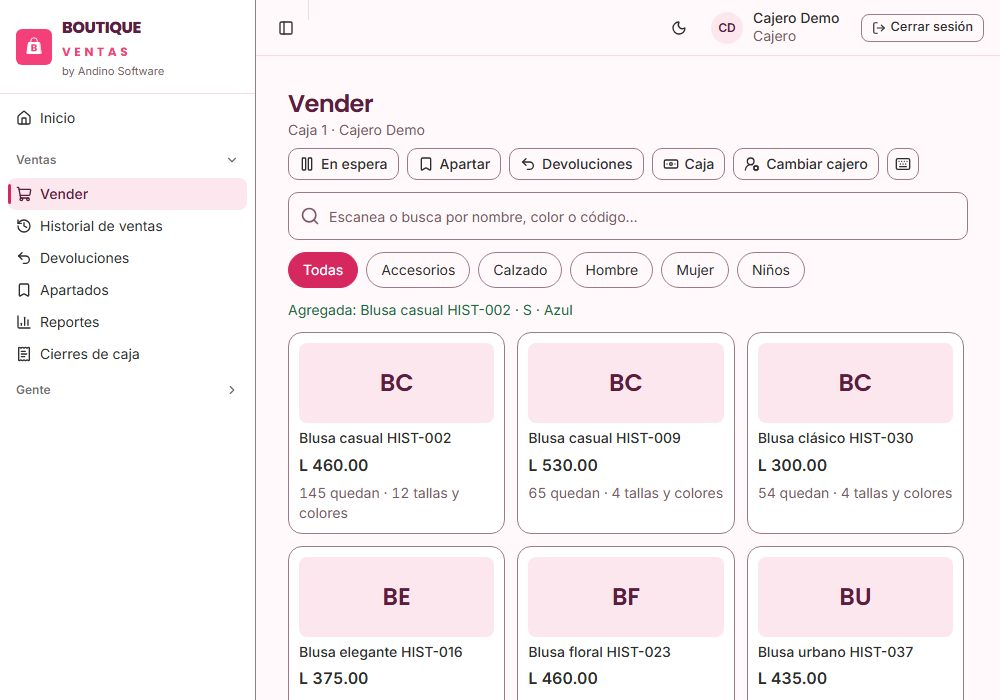
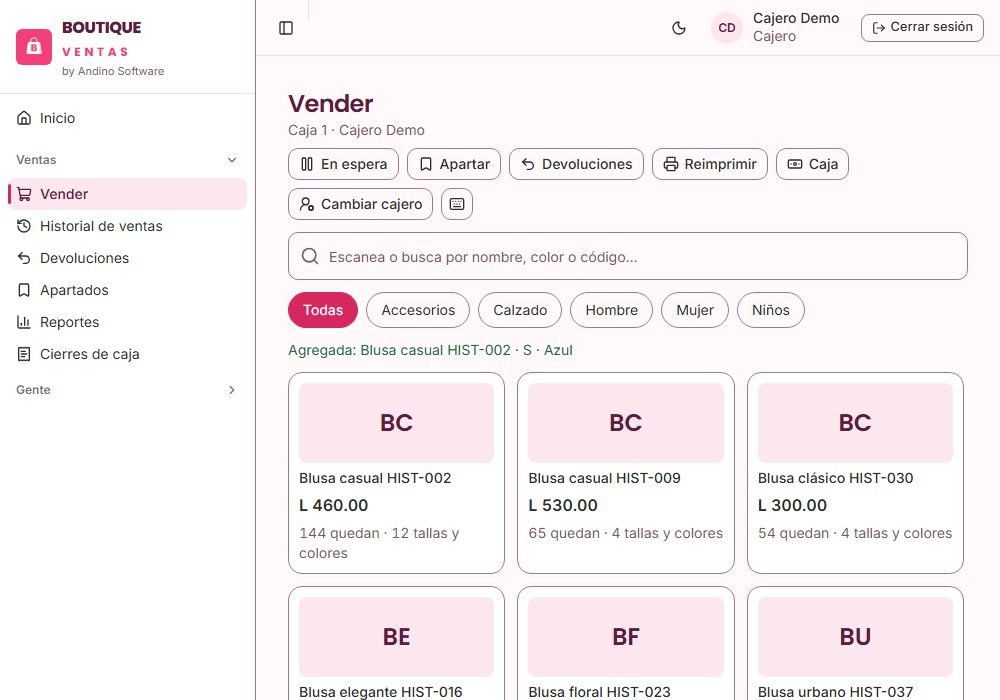
CAMBIOS DE BOTONES CAJA

diff --git a/src/modules/cash/components/cash-panel.tsx b/src/modules/cash/components/cash-panel.tsx
@@ -3,7 +3,6 @@
 import {
   ArrowDownToLine,
   ArrowUpFromLine,
-  Ban,
   Banknote,
   Bookmark,
   ChevronLeft,
@@ -39,9 +38,6 @@ type CashPanelProps = {
   openedByName: string;
   /** El punto de venta pausa sus atajos mientras el panel está abierto. */
   onOpenChange?: (open: boolean) => void;
-  /** Hay prendas en el ticket: se puede cancelar la venta. */
-  canCancelSale: boolean;
-  onCancelSale: () => void;
   /** Solo si la persona puede manejar apartados. */
   canLayaway: boolean;
 };
@@ -50,18 +46,11 @@ const actionClass = "h-12 justify-start gap-2 px-3 text-sm font-medium";
 
 /**
  * La caja dentro de Vender, como los botones de una caja registradora: ingresar o retirar efectivo, agregar un gasto, los
- * apartados, cancelar la venta y el corte. Los datos se piden al abrir y otra vez tras cada cambio, así lo que ven coincide
- * con las ventas que se acaban de cobrar. (Cambiar de cajero sigue en el encabezado de Vender: también lo usa quien no
- * es dueño del turno.)
+ * apartados y el corte. Los datos se piden al abrir y otra vez tras cada cambio, así lo que ven coincide con las ventas
+ * que se acaban de cobrar. (Cambiar de cajero sigue en el encabezado de Vender: también lo usa quien no es dueño del
+ * turno. Vaciar el ticket está en el propio ticket, y deshacer una venta ya cobrada es una devolución.)
  */
-export function CashPanel({
-  ownSession,
-  openedByName,
-  onOpenChange,
-  canCancelSale,
-  onCancelSale,
-  canLayaway,
-}: CashPanelProps) {
+export function CashPanel({ ownSession, openedByName, onOpenChange, canLayaway }: CashPanelProps) {
   const [open, setOpen] = useState(false);
   const [view, setView] = useState<View>("menu");
   const [state, setState] = useState<CashPanelState | null>(null);
@@ -83,12 +72,6 @@ export function CashPanel({
         load();
       }
     }
-  }
-
-  /** Cierra el panel y deja que el punto de venta siga con lo que pidió (cancelar la venta). */
-  function leaveTo(action: () => void) {
-    changeOpen(false);
-    action();
   }
 
   function saved() {
@@ -163,13 +146,7 @@ export function CashPanel({
               ) : null}
 
               <div hidden={view !== "menu"} className="space-y-4">
-                <ActionGrid
-                  data={state.data}
-                  canCancelSale={canCancelSale}
-                  canLayaway={canLayaway}
-                  onView={setView}
-                  onCancelSale={() => leaveTo(onCancelSale)}
-                />
+                <ActionGrid data={state.data} canLayaway={canLayaway} onView={setView} />
                 <ShiftDetail data={state.data} />
                 <Link
                   href="/caja/cierres"
@@ -215,16 +192,12 @@ function ActionButton({
 
 function ActionGrid({
   data,
-  canCancelSale,
   canLayaway,
   onView,
-  onCancelSale,
 }: {
   data: CashPanelData;
-  canCancelSale: boolean;
   canLayaway: boolean;
   onView: (view: View) => void;
-  onCancelSale: () => void;
 }) {
   const actions = panel.actions;
   // Sin el módulo Finanzas, «Retirar efectivo» cubre también los pagos: el gasto necesita una categoría a dónde ir.
@@ -248,13 +221,6 @@ function ActionGrid({
           {actions.layaways}
         </Link>
       ) : null}
-      <ActionButton
-        icon={<Ban aria-hidden="true" />}
-        disabled={!canCancelSale}
-        onClick={onCancelSale}
-      >
-        {actions.cancelSale}
-      </ActionButton>
       <Button
         type="button"
         className={cn(actionClass, "col-span-2")}

diff --git a/tests/e2e/shift.spec.ts b/tests/e2e/shift.spec.ts
@@ -443,6 +443,15 @@ test("the cashier charges in cash, sees the change and prints the ticket", async
   // Nueva venta: el ticket queda vacío y el ticket cobrado se puede imprimir
   await page.getByRole("button", { name: charge.done.newSale }).click();
   await expect(page.getByText(pos.ticket.empty)).toBeVisible();
+
+  // El botón «Reimprimir» (la tecla F9) abre el último ticket cobrado
+  const [reprinted] = await Promise.all([
+    page.context().waitForEvent("page"),
+    page.getByRole("button", { name: pos.actions.reprint, exact: true }).click(),
+  ]);
+  await reprinted.waitForURL(/\/imprimir\/ticket\/[a-z0-9]+/);
+  await reprinted.close();
+
   await page.goto(printHref.replace("?auto=1", ""));
   const sheet = page.getByRole("article", { name: `${messages.salesDoc.ticket} ${ticketNumber}` });
   await expect(sheet).toContainText(name);
@@ -473,26 +482,28 @@ test("the cashier charges in cash, sees the change and prints the ticket", async
   await closeLeftoverCash(page);
 });
 
-test("the cashier cancels a sale with a reason, from the ticket and from the cash panel, and it stays on record", async ({
+test("the cashier empties the ticket with a reason, it stays on record, and the cash panel has no such button", async ({
   page,
   browser,
 }) => {
   test.slow();
-  const name = `E2E Cancelar ${Date.now()}`;
+  const name = `E2E Vaciar ${Date.now()}`;
   const baseURL = test.info().project.use.baseURL as string;
   await createStockedProduct(browser, baseURL, name, "90", "L 90.00", "5");
 
   await openCashAndSell(page);
 
-  // Sin prendas en el ticket no hay venta que cancelar
+  // Sin prendas no hay nada que vaciar; y el panel de Caja no lo ofrece (una venta ya cobrada se deshace con una devolución)
+  const clear = page.getByRole("button", { name: pos.ticket.clear });
+  await expect(clear).toBeDisabled();
   const idle = await openCashPanel(page);
-  await expect(idle.getByRole("button", { name: copy.panel.actions.cancelSale })).toBeDisabled();
+  await expect(idle.getByRole("button", { name: pos.ticket.clear })).toHaveCount(0);
   await page.keyboard.press("Escape");
   await expect(idle).toBeHidden();
 
-  // Desde el ticket: pide el motivo y no se cancela sin él
+  // Desde el ticket: pide el motivo y no se vacía sin él
   await addToTicket(page, name, "L 90.00");
-  await page.getByRole("button", { name: pos.ticket.clear }).click();
+  await clear.click();
   const dialog = page.getByRole("dialog", { name: pos.cancel.title });
   const confirm = dialog.getByRole("button", { name: pos.cancel.confirm });
   await expect(confirm).toBeDisabled();
@@ -502,10 +513,9 @@ test("the cashier cancels a sale with a reason, from the ticket and from the cas
   await confirm.click();
   await expect(page.getByText(pos.ticket.empty)).toBeVisible();
 
-  // Desde el panel de Caja: lo mismo
+  // Otra vez, con otro motivo
   await addToTicket(page, name, "L 90.00");
-  const panel = await openCashPanel(page);
-  await panel.getByRole("button", { name: copy.panel.actions.cancelSale }).click();
+  await clear.click();
   const again = page.getByRole("dialog", { name: pos.cancel.title });
   await again.getByLabel(pos.cancel.reason, { exact: true }).fill("E2E se fue sin comprar");
   await again.getByRole("button", { name: pos.cancel.confirm }).click();

diff --git a/src/config/messages.es.ts b/src/config/messages.es.ts
@@ -459,7 +459,7 @@ export const messages = {
     pagination: { previous: "Anterior", next: "Siguiente" },
     actions: {
       SALE_VOIDED: "Venta anulada",
-      TICKET_CANCELLED: "Venta cancelada antes de cobrar",
+      TICKET_CANCELLED: "Ticket vaciado antes de cobrar",
       RETURN_PROCESSED: "Devolución registrada",
       RETURN_OVERRIDE: "Devolución con autorización",
       STORE_CREDIT_ADJUSTED: "Ajuste del crédito de tienda",
@@ -1706,7 +1706,6 @@ export const messages = {
         cashOut: "Retirar efectivo",
         expense: "Agregar gasto",
         layaways: "Apartados",
-        cancelSale: "Cancelar venta",
         close: "Realizar corte",
       },
       back: "Volver a la caja",
@@ -1802,21 +1801,21 @@ export const messages = {
       decrease: "Una menos",
       quantity: "Cantidad de",
       lineDiscount: "desc.",
-      clear: "Cancelar venta",
+      clear: "Vaciar ticket",
       invalidDiscount: "El descuento es mayor que el ticket. Revísalo.",
       customerNone: "Consumidor final",
       credit: "Crédito de tienda",
       creditLink: "Ver ficha",
     },
-    /** Descartar un ticket antes de cobrarlo: siempre con motivo, y queda en la auditoría. */
+    /** Vaciar un ticket que todavía no se cobró: siempre con motivo, y queda en la auditoría. (Una venta ya cobrada se deshace con una devolución.) */
     cancel: {
-      title: "Cancelar venta",
+      title: "Vaciar ticket",
       reason: "Motivo",
       invalidReason: "Escribe el motivo (al menos 3 letras).",
-      confirm: "Cancelar venta",
-      confirming: "Cancelando…",
+      confirm: "Vaciar ticket",
+      confirming: "Vaciando…",
       keep: "Seguir vendiendo",
-      done: "Venta cancelada.",
+      done: "Ticket vaciado.",
     },
     actions: {
       discount: "Descuento",
@@ -1825,6 +1824,7 @@ export const messages = {
       customer: "Cliente",
       parked: "En espera",
       park: "Poner en espera",
+      reprint: "Reimprimir",
       help: "Atajos",
       cash: "Caja",
     },

diff --git a/src/modules/sales/components/pos-screen.tsx b/src/modules/sales/components/pos-screen.tsx
@@ -1,6 +1,6 @@
 "use client";
 
-import { Bookmark, Keyboard, Pause, Search, Undo2, UserRoundCog } from "lucide-react";
+import { Bookmark, Keyboard, Pause, Printer, Search, Undo2, UserRoundCog } from "lucide-react";
 import { useRouter } from "next/navigation";
 import { useCallback, useEffect, useMemo, useRef, useState, type FormEvent } from "react";
 
@@ -445,7 +445,7 @@ export function PosScreen({
             {config.terminalName} · {config.openedByName}
           </p>
         </div>
-        {/* Los atajos (F6, F7, F8, F1) viven en el tooltip y en la ayuda «Atajos»: así los botones quedan limpios. */}
+        {/* Cada atajo tiene su botón; la tecla (F6, F7, F8, F9, F1) viene en el tooltip y en la ayuda «Atajos». */}
         <div className="flex flex-wrap gap-2">
           <Button type="button" variant="outline" title="F6" onClick={() => openDialog("parked")}>
             <Pause aria-hidden="true" />
@@ -472,13 +472,15 @@ export function PosScreen({
             <Undo2 aria-hidden="true" />
             {copy.actions.returns}
           </Button>
+          <Button type="button" variant="outline" title="F9" onClick={reprint}>
+            <Printer aria-hidden="true" />
+            {copy.actions.reprint}
+          </Button>
           {config.canUseCash ? (
             <CashPanel
               ownSession={config.ownsCash}
               openedByName={config.openedByName}
               onOpenChange={setCashOpen}
-              canCancelSale={items.length > 0}
-              onCancelSale={cancelCurrent}
               canLayaway={config.canLayaway}
             />
           ) : null}

diff --git a/docs/UX.md b/docs/UX.md
@@ -80,6 +80,8 @@ El menú muestra solo lo que el rol puede usar. El **Cajero** ve un menú reduci
 | `Supr` | Quitar línea seleccionada |
 | `Ctrl+K` | Búsqueda global |
 
+**Ninguna acción existe solo por teclado:** cada atajo tiene su botón en pantalla (Cliente, Descuento, En espera, Apartar, Devoluciones, **Reimprimir**, Cobrar, Atajos) y el atajo solo es la forma rápida de pulsarlo. `F2` y `Ctrl+K` llevan al campo de búsqueda, que siempre está a la vista; `Esc` y `Supr` equivalen a cerrar la ventana y a la **X** de cada línea.
+
 ## 4. Catálogo: crear productos sin sufrir
 
 El mayor cuello de botella de cualquier boutique es **cargar productos**. Diseñar para eso:
@@ -101,10 +103,10 @@ El mayor cuello de botella de cualquier boutique es **cargar productos**. Diseñ
 
 ## 6. Caja
 
-La caja vive **dentro de Vender** (no tiene entrada propia en el menú; `/caja` lleva a Vender). El botón **Caja** del encabezado del punto de venta abre un panel lateral: arriba el efectivo que debe haber, siempre a la vista, y debajo los **botones de una caja registradora** —*Ingresar efectivo*, *Retirar efectivo*, *Agregar gasto* (solo con Finanzas), *Apartados*, *Cancelar venta* y *Realizar corte*— seguidos del detalle del turno y sus movimientos. Cada acción de efectivo abre su formulario dentro del panel con una flecha para volver; todas piden un motivo. El panel se pide al abrirlo y tras cada cambio; los atajos del punto de venta se pausan mientras está abierto. El corte queda montado: volver al menú no borra lo que se estaba contando.
+La caja vive **dentro de Vender** (no tiene entrada propia en el menú; `/caja` lleva a Vender). El botón **Caja** del encabezado del punto de venta abre un panel lateral: arriba el efectivo que debe haber, siempre a la vista, y debajo los **botones de una caja registradora** —*Ingresar efectivo*, *Retirar efectivo*, *Agregar gasto* (solo con Finanzas), *Apartados* y *Realizar corte*— seguidos del detalle del turno y sus movimientos. Cada acción de efectivo abre su formulario dentro del panel con una flecha para volver; todas piden un motivo. El panel se pide al abrirlo y tras cada cambio; los atajos del punto de venta se pausan mientras está abierto. El corte queda montado: volver al menú no borra lo que se estaba contando.
 
 - **Apertura:** si no hay turno abierto, Vender muestra «Abre tu caja» con un solo botón. Si el último cierre dejó efectivo, se ve el **saldo anterior** en grande, con quién lo dejó y cuándo, y **no se puede cambiar**: la caja abre con ese saldo (la diferencia con el cajón se registra después con Ingresar o Retirar efectivo y su motivo). Sin saldo anterior, un único campo: fondo inicial.
-- **Cancelar venta:** con prendas en el ticket (desde el ticket o desde el panel), un diálogo pide el **motivo** y deja constancia; sin él no se cancela. Descartar un ticket en espera pasa por lo mismo.
+- **Vaciar ticket:** con prendas en el ticket, el botón del propio ticket (la papelera) abre un diálogo que pide el **motivo** y deja constancia; sin él no se vacía. Descartar un ticket en espera pasa por lo mismo. No está en el panel de Caja: una venta **ya cobrada** no se cancela, se deshace con una **devolución** o una anulación.
 - **Corte:** pasos: *contar billetes y monedas (siempre; el total sale solo) → ver la diferencia → cuánto se retira → comentario y cerrar*. La diferencia se colorea: verde (0), ámbar (pequeña), rojo (grande). El retiro tiene botones «Retirar todo» y «No retirar nada» y una línea que dice cuánto **queda en la caja para mañana**; no deja retirar más de lo contado. Imprimible.
 - La caja de otra persona: si la terminal la abrió alguien más, el panel lo explica y no deja operar (solo quien abrió el turno lo cierra).
 - Sin turno abierto, Vender muestra el formulario de apertura en lugar del punto de venta.
@@ -159,10 +161,10 @@ Una pantalla se lee de un vistazo cuando solo dice lo que hace falta. Estas regl
 
 1. **Un título y nada que lo repita.** Una pantalla no lleva subtítulo salvo que diga algo que el título no dice (un rango de fechas, quién abrió la caja, una cifra). «Productos» no necesita «Las prendas que vendes».
 2. **La ayuda va donde un error cuesta dinero o datos.** Un campo obvio no lleva ayuda. Si la lleva: una línea, de 12 palabras o menos, sin repetir la etiqueta. Un ejemplo corto («Ej.: Recibo de luz de octubre») vale más que una explicación.
-3. **Etiquetas de hasta 3 palabras** y un mismo verbo para la misma acción en toda la aplicación (Guardar, Crear, Archivar, Anular, Cancelar venta, Cobrar).
+3. **Etiquetas de hasta 3 palabras** y un mismo verbo para la misma acción en toda la aplicación (Guardar, Crear, Archivar, Anular, Vaciar ticket, Cobrar). «Cancelar» se reserva para salir de un formulario; no se usa para deshacer ventas.
 4. **Estados vacíos: una línea y un botón.** Sin párrafos.
 5. **Avisos solo si se puede actuar.** Una frase: qué pasó y qué hacer. Los errores no piden disculpas.
-6. **Lo que se hace con atajos no se repite en el botón.** Los atajos (F4, F6…) viven en el tooltip y en la ayuda «Atajos»; solo quedan a la vista en Cobrar y Descuento.
+6. **Cada atajo tiene su botón, y la tecla no se repite en él.** Los atajos (F6, F7, F8, F9, F1…) viven en el tooltip y en la ayuda «Atajos»; solo quedan a la vista en Cobrar y Descuento. Ninguna acción existe solo por teclado.
 7. **Letra legible:** 14 px (`text-sm`) como mínimo para cualquier ayuda, nota, línea secundaria o error. `text-xs` (12 px) solo para insignias, atajos, códigos y ejes de gráficas. Contraste AA en claro y oscuro.
 8. **Los números mandan:** el dinero y las cantidades van grandes y alineados; las palabras que los rodean, las justas.
 
@@ -174,7 +176,7 @@ Medida: `messages.es.ts` pasó de 9,226 a 7,712 palabras; las ayudas y descripci
 | Sin stock | "Sin existencia de esta talla." |
 | Venta exitosa | "¡Venta registrada! Cambio a entregar: L 150.00" |
 | Descuento sobre el límite | "Pasa tu límite: al cobrar pedirá la aprobación de un gerente." |
-| Cancelar venta | Un campo: «Motivo». Botón «Cancelar venta». |
+| Vaciar ticket | Un campo: «Motivo». Botón «Vaciar ticket». |
 | Anular venta | "Vas a anular esta venta. Las prendas volverán al inventario y el pago se revertirá. Escribe el motivo." |
 | Lista vacía (productos) | "Aún no tienes productos." y el botón «Crear producto» |
 | Cierre con diferencia | "Hay una diferencia de L 20.00 (faltante). Agrega un comentario para continuar." |

diff --git a/docs/manual/cajero.md b/docs/manual/cajero.md
@@ -38,7 +38,9 @@ Todo lo que necesitas para vender. Si algo no sale como aquí, pídele ayuda al 
 
 ## 3. Cosas que pasan seguido
 
-- **El cliente se arrepiente antes de pagar:** pulsa **Cancelar venta** (también está en el botón **Caja**). Te pide el **motivo** y queda anotado; no se cancela sin él. Para quitar solo una prenda, usa la **X** de su línea.
+- **El cliente se arrepiente antes de pagar:** pulsa **Vaciar ticket** (la papelera del ticket). Te pide el **motivo** y queda anotado; no se vacía sin él. Para quitar solo una prenda, usa la **X** de su línea.
+- **El cliente ya pagó y se arrepiente:** eso no se cancela, es una **devolución** (siguiente punto).
+- **Se perdió el ticket del cliente:** pulsa **Reimprimir** (arriba, en Vender) y sale el último ticket cobrado en este equipo. Para uno más viejo, búscalo en **Ventas**.
 - **Un cliente espera mientras buscas algo:** pulsa **En espera** (**F6**) para guardar el ticket y atender a otro; lo recuperas en la misma ventana.
 - **Descuento:** **Descuento** (**F4**). Puedes dar **hasta el 10 %** sin pedir permiso. Más que eso necesita a un gerente: él escribe su usuario y su PIN y lo autoriza.
 - **El cliente quiere cambiar o devolver:** pulsa **Devoluciones** (**F8**) y busca la venta. Tiene **8 días** para hacerlo. Devolver en efectivo lo autoriza un gerente; lo normal es cambiar por otra prenda o dejar el valor como **crédito de tienda**.
@@ -47,9 +49,9 @@ Todo lo que necesitas para vender. Si algo no sale como aquí, pídele ayuda al 
 - **Me equivoqué en una venta ya cobrada:** no se borra. Avísale al gerente: la corrige con una anulación (mientras tu turno siga abierto) o con una devolución.
 - **Otro cajero va a tomar el mostrador:** **Cambiar cajero** (usuario y PIN); el ticket armado no se pierde.
 
-| Cancelar venta: pide el motivo |
+| Vaciar ticket: pide el motivo |
 | :---: |
-| ![Ventana que pide el motivo para cancelar la venta](img/11-cancelar-venta.jpg) |
+| ![Ventana que pide el motivo para vaciar el ticket](img/11-vaciar-ticket.jpg) |
 
 ## 4. Cerrar tu caja al terminar
 
@@ -73,4 +75,4 @@ Nada de esto se edita ni se borra: si te equivocas, haz el movimiento contrario 
 
 ## 5. Atajos útiles
 
-**F1** muestra todos los atajos dentro del sistema. Los más usados: **F2** buscar · **F12** cobrar · **F6** en espera · **Esc** cerrar la ventana · **Supr** quitar la línea seleccionada.
+Todo lo que se hace con una tecla también tiene su **botón** en pantalla: los atajos solo son la forma rápida. **F1** (o el botón del teclado) muestra todos los atajos dentro del sistema. Los más usados: **F2** buscar · **F12** cobrar · **F6** en espera · **Esc** cerrar la ventana · **Supr** quitar la línea seleccionada.
